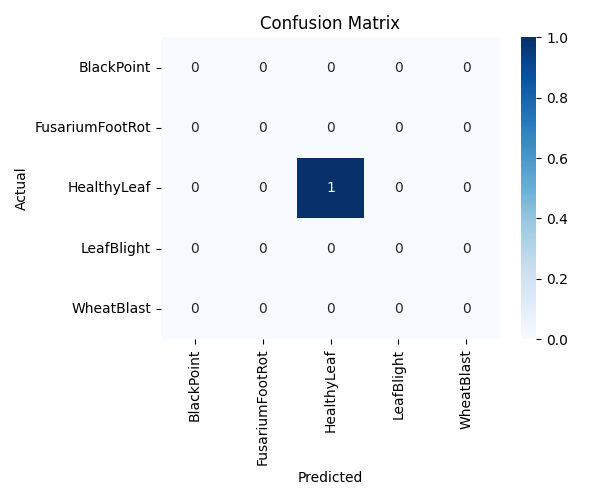
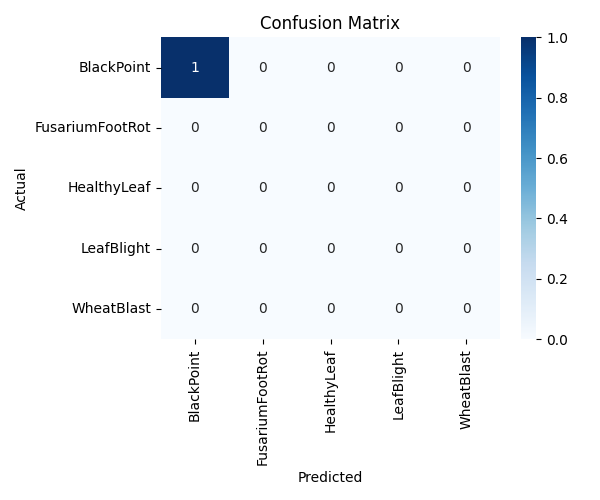
Add Docker and Gunicorn support, fix Keras 3 issues

Changed region(s): [[0.48, 0.3, 0.63, 0.45], [0.27, 0.06, 0.39, 0.21]]

diff --git a/templates/result.html b/templates/result.html
@@ -10,13 +10,13 @@
     <h1>✅ Prediction Result</h1>
 
     <h2>Uploaded Image</h2>
-    <img src="{{ url_for('static', filename='uploads/' + image_path.split('/')[-1]) }}" alt="Uploaded Image" width="256" height="256">
+    <img src="{{ url_for('static', filename='uploads/' + image_path.split('/')[-1]) }}?t={{ timestamp }}" alt="Uploaded Image" width="256" height="256">
 
     <h2>Predicted Class:</h2>
     <div class="result">{{ predicted_class }}</div>
 
     <h2>Confusion Matrix</h2>
-    <img src="{{ url_for('static', filename='cm.png') }}" alt="Confusion Matrix" class="cm-image">
+    <img src="{{ url_for('static', filename='cm.png') }}?t={{ timestamp }}" alt="Confusion Matrix" class="cm-image">
 
     <a href="{{ url_for('index') }}" class="btn">🔁 Try Another Image</a>
   </div>

diff --git a/app.py b/app.py
@@ -18,7 +18,8 @@ os.makedirs(app.config['UPLOAD_FOLDER'], exist_ok=True)
 # Load model
 model = tf.keras.models.load_model(
     'saved_models/vit_dataset-1.h5',
-    custom_objects={'TransformerBlock': TransformerBlock}
+    custom_objects={'TransformerBlock': TransformerBlock},
+    compile=False
 )
 
 # Class labels (update if changed)
@@ -78,11 +79,13 @@ def predict():
     true_label = next((i for i, cls in enumerate(class_names) if cls.lower() in filename.lower()), predicted_class)
     save_confusion_matrix(true_label, predicted_class)
 
+    import time
     return render_template(
         'result.html',
         image_path=filename,  # just filename now
         predicted_class=predicted_label,
-        cm_path='static/cm.png'
+        cm_path='static/cm.png',
+        timestamp=int(time.time())
     )
 
 if __name__ == '__main__':
